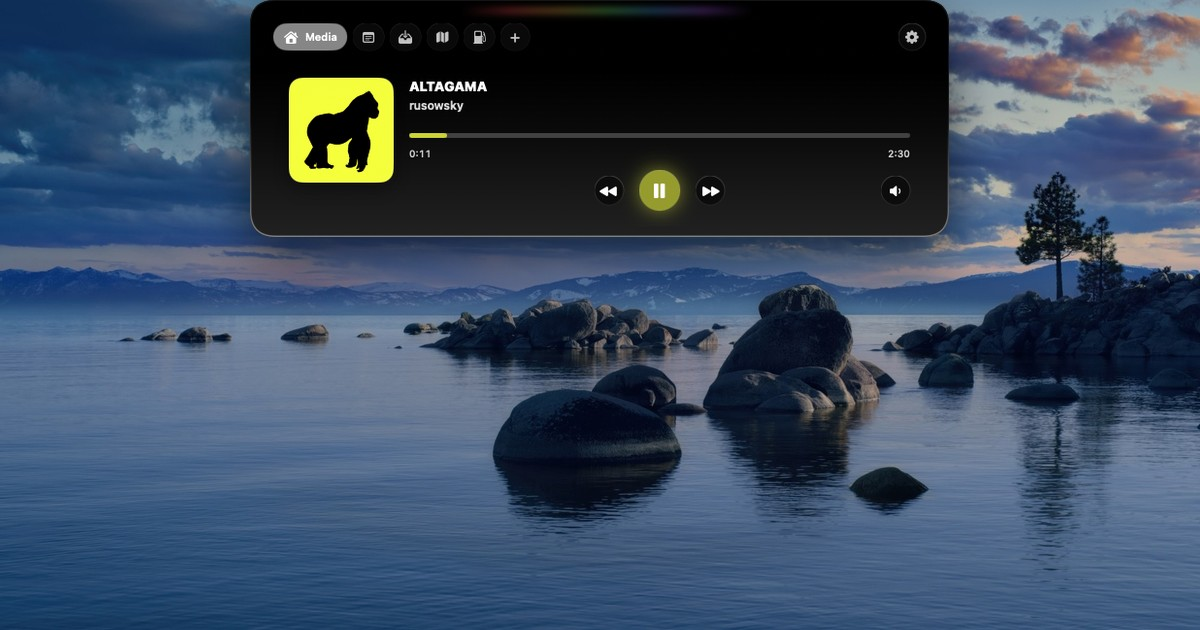
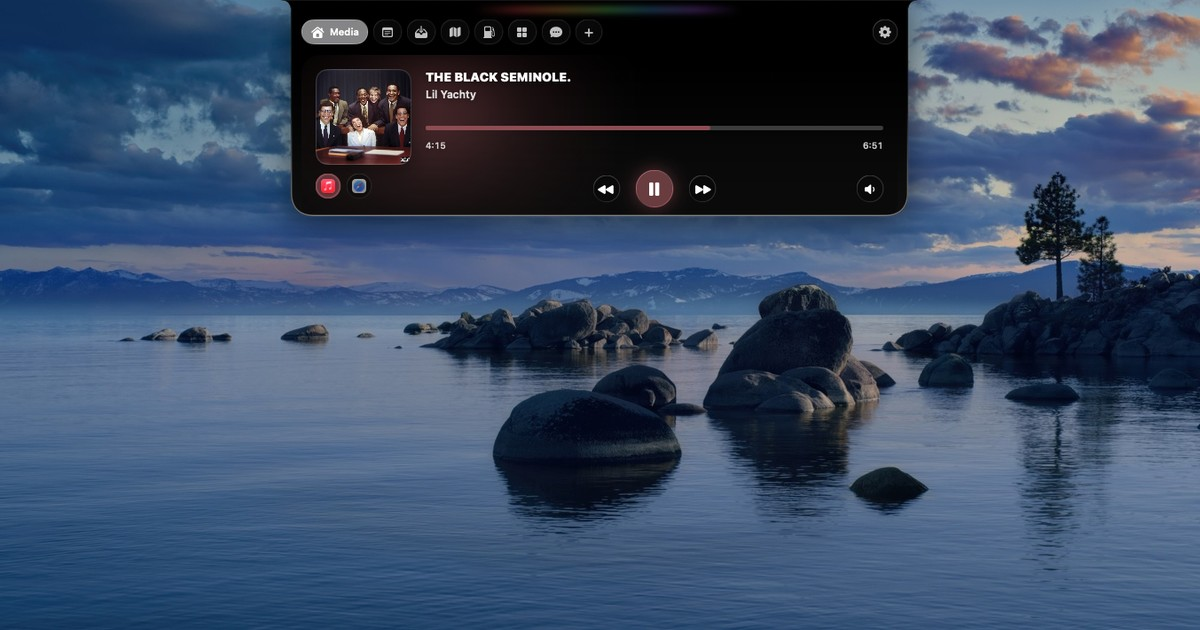
All in a notch: ALTAGAMA panel on the home tile; reword app-page desc
Put the new expanded panel (ALTAGAMA / rusowsky) on the home-feed tile,
centered like the other apps; restore the app-page Media shot and OG to
the prior capture. Reword the app-page description to stop listing every
tab and drop the Liquid Glass mention.

Changed region(s): [[0.185, 0.0, 0.8017, 0.4222]]

diff --git a/notch/index.html b/notch/index.html
@@ -58,9 +58,8 @@
         </div>
         <div class="project-side">
           <p class="project-desc">
-            Everything, in your Mac's notch. It turns the notch into a Liquid Glass panel —
-            music, a nearby map, a moodboard, Claude chat, AirDrop, websites and notes,
-            a hover away and gone again.
+            Everything, in your Mac's notch. Hover it and the notch opens into a panel
+            with a whole set of tabs and tools to choose from — a hover away, and gone again.
           </p>
           <div class="project-cta">
             <a class="pill primary" href="https://github.com/02-alt/btbr-website/releases/download/notch/NotchGlass-1.26.08.dmg">Download</a>
